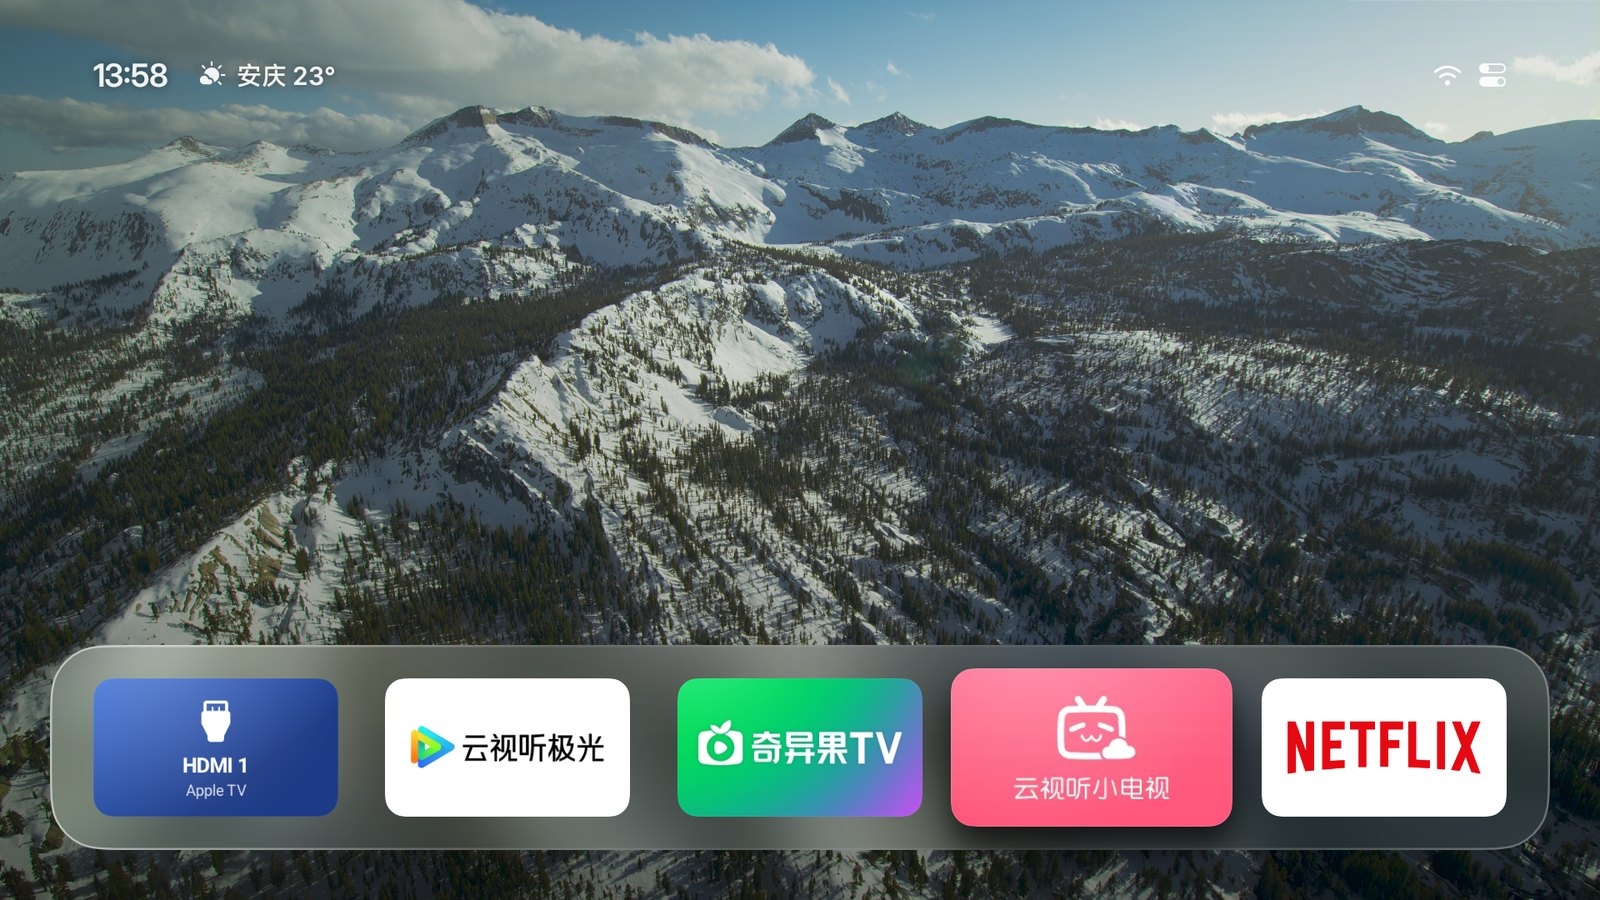
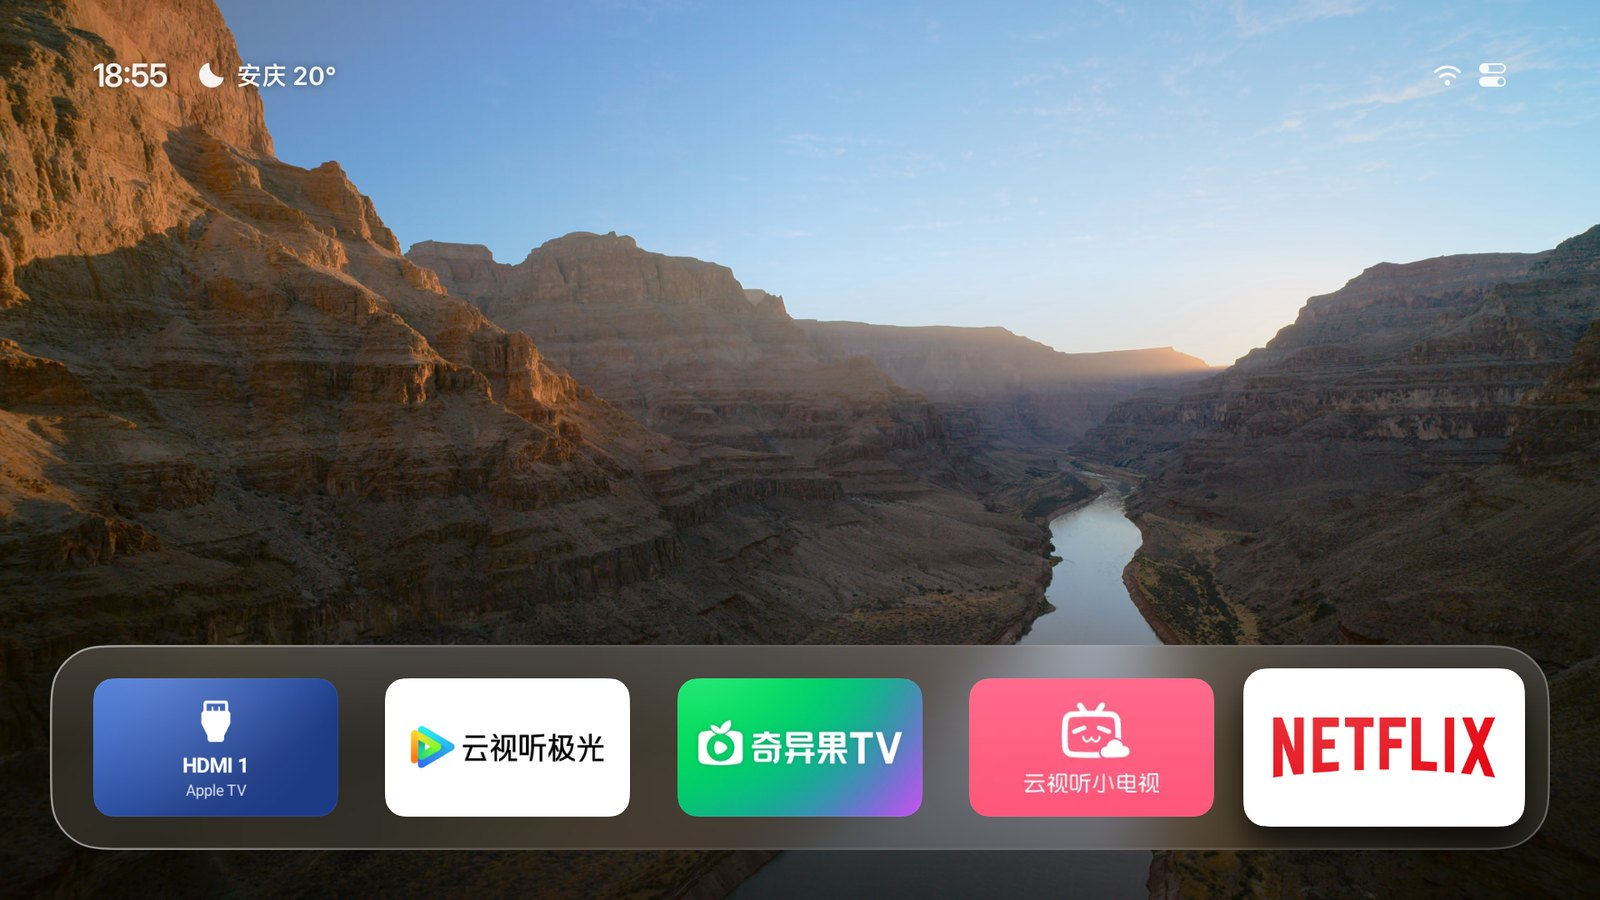
Site and README: home screenshot on the Xiaomi's current wallpaper

diff --git a/android/site/en/index.html b/android/site/en/index.html
@@ -16,7 +16,7 @@
 <meta name="description" content="An open-source, tvOS-style home screen for Android TV. No ads, no recommendation feeds. Just your apps, your wallpaper and Apple TV's aerial screensavers. Built for Xiaomi, TCL and other TVs sold in China.">
 <meta property="og:title" content="Aerial · A calm home screen for Android TV">
 <meta property="og:description" content="An open-source, tvOS-style home screen for Android TV. No ads, and it stays your home screen.">
-<meta property="og:image" content="../img/home.jpg?v=146">
+<meta property="og:image" content="../img/home.jpg?v=147">
 <meta name="theme-color" content="#000000">
 <link rel="alternate" hreflang="zh" href="https://aerial.qust.me/">
 <link rel="alternate" hreflang="en" href="https://aerial.qust.me/en/">
@@ -53,7 +53,7 @@
     <div class="tv reveal">
       <div class="glow"></div>
       <div class="screen compare" id="compare" role="slider" tabindex="0" aria-label="The TV's stock home screen compared with Aerial. Move left or right to compare." aria-valuemin="0" aria-valuemax="100" aria-valuenow="0">
-        <img class="after" src="../img/home.jpg?v=146" alt="Aerial's home screen: a landscape wallpaper and a row of apps on a glass shelf" width="1600" height="900">
+        <img class="after" src="../img/home.jpg?v=147" alt="Aerial's home screen: a landscape wallpaper and a row of apps on a glass shelf" width="1600" height="900">
         <img class="before" src="../img/stock-xiaomi.jpg?v=3" alt="The TV's stock home screen, covered in show recommendations and membership badges" width="1600" height="900">
         <div class="divider" aria-hidden="true"><span class="knob"><svg width="20" height="20" viewBox="0 0 24 24" fill="none" stroke="currentColor" stroke-width="2.4" stroke-linecap="round" stroke-linejoin="round"><path d="M9 6l-6 6 6 6M15 6l6 6-6 6"/></svg></span></div>
       </div>

diff --git a/android/site/index.html b/android/site/index.html
@@ -16,7 +16,7 @@
 <meta name="description" content="参照 tvOS 设计的开源 Android TV 桌面。没有广告，没有推荐流，只有你的 App、你的壁纸和航拍屏保。支持小米、TCL 等国产电视，开机自动接管。">
 <meta property="og:title" content="Aerial · 给国产电视的一块干净桌面">
 <meta property="og:description" content="参照 tvOS 设计的开源电视桌面，没有广告，开机自动接管。">
-<meta property="og:image" content="img/home.jpg?v=146">
+<meta property="og:image" content="img/home.jpg?v=147">
 <meta name="theme-color" content="#000000">
 <link rel="alternate" hreflang="zh" href="https://aerial.qust.me/">
 <link rel="alternate" hreflang="en" href="https://aerial.qust.me/en/">
@@ -53,7 +53,7 @@
     <div class="tv reveal">
       <div class="glow"></div>
       <div class="screen compare" id="compare" role="slider" tabindex="0" aria-label="电视自带的桌面和 Aerial 的对比，左右移动查看" aria-valuemin="0" aria-valuemax="100" aria-valuenow="0">
-        <img class="after" src="img/home.jpg?v=146" alt="Aerial 首页：风景壁纸和玻璃底板上的一排 App" width="1600" height="900">
+        <img class="after" src="img/home.jpg?v=147" alt="Aerial 首页：风景壁纸和玻璃底板上的一排 App" width="1600" height="900">
         <img class="before" src="img/stock-xiaomi.jpg?v=3" alt="电视自带的桌面：满屏剧集推荐、会员和限免角标" width="1600" height="900">
         <div class="divider" aria-hidden="true"><span class="knob"><svg width="20" height="20" viewBox="0 0 24 24" fill="none" stroke="currentColor" stroke-width="2.4" stroke-linecap="round" stroke-linejoin="round"><path d="M9 6l-6 6 6 6M15 6l6 6-6 6"/></svg></span></div>
       </div>

diff --git a/android/docs/HANDOFF.md b/android/docs/HANDOFF.md
@@ -5,7 +5,7 @@
 ## 现状（2026-10-24）
 
 - **1.46（versionCode 49），2026-10-24 发布**（[v1.46](https://github.com/pengchujin/aerial-tv/releases/tag/v1.46)）：手机配置页重做，底部四个标签：壁纸（当前壁纸大图、各组壁纸、添加照片，删照片走底部弹层确认）、屏保（一列单选，选「视频」时下面管理视频）、主屏幕（焦点样式、天气城市、文件夹、App 图标；点图标出底部弹层：换图、信号源起名、恢复默认）、更多（型号、语言、反馈问题）。标签记在地址（`#home`）和手机上，每页各自记住滚动位置；状态没变时 6 秒轮询不重建页面（以前图片会闪），弹层开着时不轮询。新增文件夹改名（`POST api/folder/name`，`id` + `name`，最多 24 字，空名字不改；`api/state` 多了 `folders`；`tile/folder:<id>` 给文件夹磁贴图）：`HomeViewModel` 把重命名挂在 `AppCatalog.renameFolder`。顺手修了「复制」诊断信息时局部变量 `t` 盖住翻译函数、复制后报错。小米 MFTR0（standard release）上用手机页把户主的「系统应用」改成「系统应用 测试」，电视网格里马上变了，已改回；壁纸、屏保页对着真机数据看过。TCL 没装，没在真手机（iOS Safari、微信）里打开过，只在浏览器的手机尺寸下看过深浅色。
-- 同一版：官网和 README 的截图换成 1.46 在小米 MFTR0 上拍的（单排、玻璃底板，户主本来就选的航拍壁纸）：首页优胜美地雪山，聚焦和长按菜单大峡谷，控制中心、网格、文件夹、个性化巴塔哥尼亚，屏保夏威夷云海和冰岛辫状河，手机页是新版（无头 Chrome 390×760 @2x 渲染真机页面）。换片子的办法：停在第一排让壁纸播起来，`PREVIEW_SCREENSAVER` 让屏保接着放壁纸的片子，左右键换片，按返回唤醒后就停在这一帧、底板出现，10 秒内截图。个性化截图里二维码、局域网地址和「我的照片」已模糊。官网图片缓存 7 天，所以 `site/index.html`、`site/en/index.html` 里换过的图加了 `?v=146`。户主的设置没动，壁纸仍是航拍，只是停在了巴塔哥尼亚这一帧。屏保切片时 `screencap` 偶尔截到彩色噪点（解码到一半），电视画面上没看到。
+- 同一版：官网和 README 的截图换成 1.46 在小米 MFTR0 上拍的（单排、玻璃底板，户主本来就选的航拍壁纸）：首页大峡谷里的科罗拉多河（户主电视当时的画面），聚焦和长按菜单大峡谷，控制中心、网格、文件夹、个性化巴塔哥尼亚，屏保夏威夷云海和冰岛辫状河，手机页是新版（无头 Chrome 390×760 @2x 渲染真机页面）。换片子的办法：停在第一排让壁纸播起来，`PREVIEW_SCREENSAVER` 让屏保接着放壁纸的片子，左右键换片，按返回唤醒后就停在这一帧、底板出现，10 秒内截图。个性化截图里二维码、局域网地址和「我的照片」已模糊。官网图片缓存 7 天，所以 `site/index.html`、`site/en/index.html` 里换过的图加了 `?v=146`。户主的设置没动，壁纸仍是航拍，只是停在了巴塔哥尼亚这一帧。屏保切片时 `screencap` 偶尔截到彩色噪点（解码到一半），电视画面上没看到。
 - **1.45（versionCode 48），2026-10-24 发布**（[v1.45](https://github.com/pengchujin/aerial-tv/releases/tag/v1.45)）：创维 Android 11（75A7D，8R134_A7D）`TvInputManager` 为空时，从 `content://com.skyworth.tv.sdk.provider/system/source_list` 读信号源、用 `com.skyworth.tv/.activity.SkyTVMainActivity` 的 `source` Bundle 切换（#444，报告人的补丁，在 75A7D 上验证过），接在回退链最后；`com.skyworth.tv` 算播放信号源的 App，守护不把它当原桌面。我们的小米和 TCL 回归信号源不变。
 - **1.44（versionCode 47），2026-10-24**：可选的「待机时守护退出」（`ConfigReceiver --ez guard_off_in_standby true`，默认关），给待机后唤不醒的 TCL 新固件用（#371 #132），见 `docs/devices/tcl-mt5879-cn.md`。Android 9 模拟器上测过：息屏退出、亮屏加回并拉回原桌面、息屏期间别的入口不会提前加回、关掉选项后不再退出。TCL MT5879 上真待机测过：按待机 0.5 秒内守护移出，遥控器唤醒后加回、前台是 Aerial，测完选项关回去了。
 - **1.43（versionCode 46），2026-10-24**：按 issue 修适配和 bug。① 小米 Android 6（MiTV4-ANSM0、4A、4X、盒子 4、MDZ-19-AA 等，#81 #209 #220 #318 #355 #381 #402 #413）：PatchWall 在无障碍里不发窗口事件，守护在 Android 6 及以下改为每秒读一次用量统计（`GET_USAGE_STATS`，`install.sh`/`agent.md` 授予，Android 5 的 appops 只认 `android:get_usage_stats`），只认原桌面的主页那个 Activity，同一次前台事件只拉一次；开机时原桌面列表为空会重查（#318）；聋绑定检查不只在开机窗口（#381）。思路和验证来自 #81 一位用户在 ANSM0 上的本地补丁；我们没有 Android 6 小米，只在 Android 5.0 模拟器上确认轮询不报错（那台模拟器的用量统计返回空）。② App 磁贴画不出来时不再整个丢掉，改用图标或默认图标并记日志（TCL #415）；开机后 1 分钟、3 分钟各再扫一次 App，有变化才更新（#394 #170）。③ 雷鸟 T966D5（Android 14）框架列出了信号源但没人接直通 intent，改走 `com.tcl.tv/.TVActivity`（序号同 MT5879，按名字里的数字，没验证，#395）；MiTV4 固件 22.x 的 HDMI 编号按通用规则（#375）。④ 乐视 `com.stv.appdaemon`、`com.letv.lekids` 不算原桌面（#328：每开一个 App 都被拉回）。⑤ standard 版加酷开私有类别 `HOME.CC`（#397，没验证）。⑥ 合入 PR #418（唤醒、校时后时钟立即刷新，#419）和 PR #399（下载源卡住换源，改成 30 秒不到 256 KB 才放弃，#390）。小米 MFTR0（standard）和 TCL MT5879（guard，多屏互动）装了 1.43 回归：主页键、切 HDMI 不被拉回、App 列表、时钟的广播都正常。
